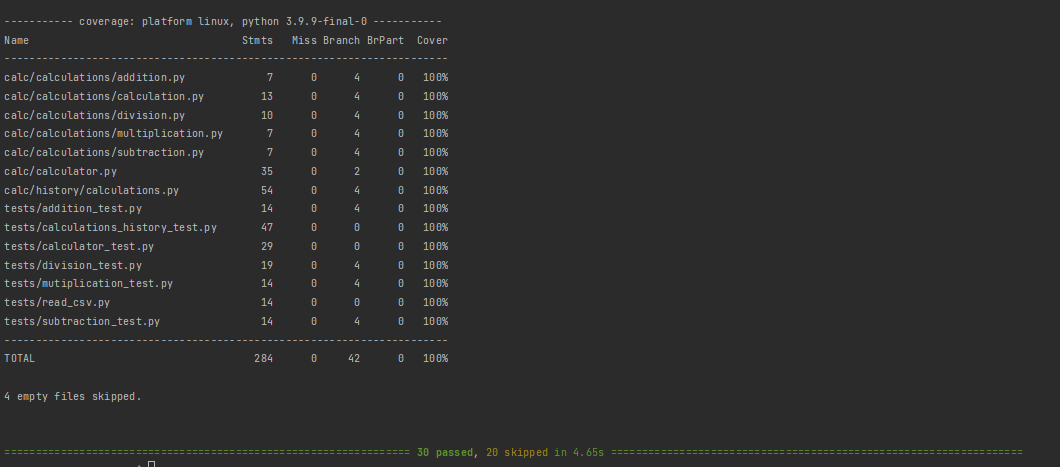
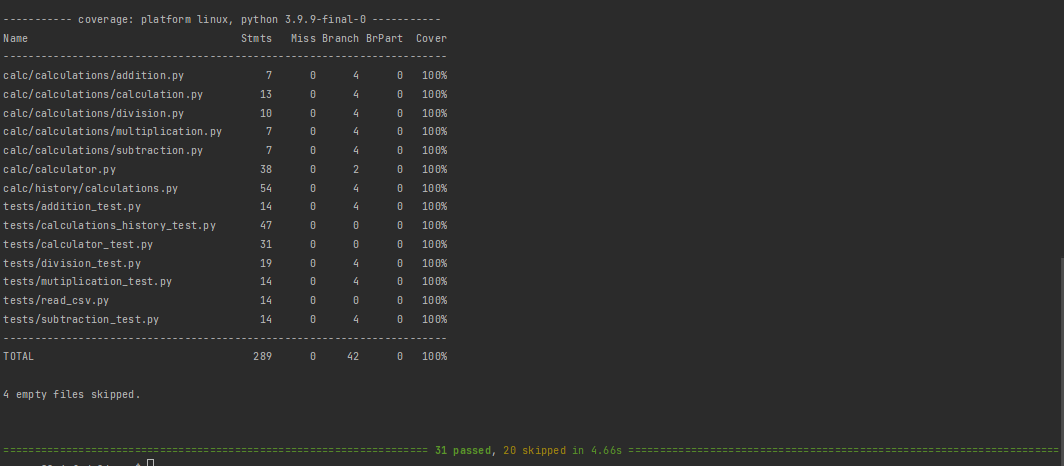
Prevent a user to break the program by messing with the csv file.

diff --git a/app/templates/result.html b/app/templates/result.html
@@ -33,4 +33,32 @@
 	<b> Value1: </b> {{ value1 }} <br>
 	<b> Value2: </b> {{ value2 }} <br>
 	<b> Result: </b> {{ result }} <br>
+
+<table class="table" id="data">
+	<thead class="thead-dark">
+		<tr>
+			<th> Operation </th>
+			<th> value1 </th>
+    		<th> value2 </th>
+    		<th> result </th>
+		</tr>
+	</thead>
+{% for item in items %}
+	<tr>
+		<td>{{ item[0] }}</td>
+		<td>{{ item[1] }}</td>
+		<td>{{ item[2] }}</td>
+		<td>{{ item[3] }}</td>
+	</tr>
+{% endfor %}
+</table>
+{% block scripts %}
+  <script>
+    $(document).ready(function () {
+      $('#data').DataTable();
+    });
+  </script>
 {% endblock %}
+{% endblock %}
+
+

diff --git a/app/templates/base.html b/app/templates/base.html
@@ -32,9 +32,6 @@
                         <li class="nav-item">
                             <a class="nav-link text-white" href="/form">Form</a>
                         </li>
-                        <li class="nav-item">
-                            <a class="nav-link text-white" href="/history">History</a>
-                        </li>
                     </ul>
                 </div>
             </nav>

diff --git a/app/app.py b/app/app.py
@@ -1,7 +1,6 @@
 """Web Application Program"""
 from flask import Flask, render_template, request, flash
 from calc.calculator import Calculator
-from calc.history.calculations import Calculations
 
 app = Flask(__name__)
 app.secret_key = b'_5#y2L"F4Q8z\n\xec]/'
@@ -25,8 +24,11 @@ def form():
 
         if value1 == "" or value2 == "":
             flash("Input Empty Error!", "error")
+            Calculator.read_csv_file()
+            items = Calculator.get_history()
             return render_template('result.html', value1=value1,
-                                   value2=value2, operation=operation, result="")
+                                   value2=value2, operation=operation, result="",
+                                   items=items)
 
         getattr(Calculator, operation)(value1, (value2,))
         result = ""
@@ -35,14 +37,20 @@ def form():
             flash("Division by Zero Error!", "error")
             result = "None"
             Calculator.put_history_to_csv(operation, value1, value2, result)
+            Calculator.read_csv_file()
+            items = Calculator.get_history()
             return render_template('result.html', value1=value1,
-                                   value2=value2, operation=operation, result=result)
+                                   value2=value2, operation=operation, result=result,
+                                   items=items)
         else:
             result = str(Calculator.get_last_calculation())
             flash("Success!", "success")
             Calculator.put_history_to_csv(operation, value1, value2, result)
+            Calculator.read_csv_file()
+            items = Calculator.get_history()
             return render_template('result.html', value1=value1,
-                                   value2=value2, operation=operation, result=result)
+                                   value2=value2, operation=operation, result=result,
+                                   items=items)
     else:
         return render_template('form.html')
 
@@ -57,16 +65,3 @@ def result_message():
     message = operation + " of " + value1 + " " + value2 + " is " + result
     flash('You were successfully logged in')
     return message
-
-
-@app.route('/history')
-def history_table():
-    """Display the calculation history"""
-    Calculations.read_csv_file()
-    operation = "operations"
-    value1 = "value1"
-    value2 = "value2"
-    result = "result"
-    items = Calculations.get_history()
-    return render_template('history.html', items=items, operation=operation, value1=value1,
-                           value2=value2, result=result)

diff --git a/calc/calculator.py b/calc/calculator.py
@@ -14,7 +14,6 @@ class Calculator:
         """Add as many times to the first number"""
         addition = Addition.create(value, values)
         Calculations.add_history(addition)
-        # Calculations.put_history_to_csv(addition)
         return addition.get_result()
 
     @staticmethod
@@ -22,7 +21,6 @@ class Calculator:
         """Subtract as many times to the first number"""
         subtraction = Subtraction.create(value, values)
         Calculations.add_history(subtraction)
-        # Calculations.put_history_to_csv(subtraction)
         return subtraction.get_result()
 
     @staticmethod
@@ -30,7 +28,6 @@ class Calculator:
         """Multiply as many times to the first number"""
         multiplication = Multiplication.create(value, values)
         Calculations.add_history(multiplication)
-        # Calculations.put_history_to_csv(multiplication)
         return multiplication.get_result()
 
     @staticmethod
@@ -38,7 +35,6 @@ class Calculator:
         """Divide as many times to the first number"""
         division = Division.create(value, values)
         Calculations.add_history(division)
-        # Calculations.put_history_to_csv(division)
         return division.get_result()
 
     @staticmethod
@@ -55,3 +51,8 @@ class Calculator:
     def put_history_to_csv(operation, value1, value2, result):
         """Write History"""
         return Calculations.put_history_to_csv(operation, value1, value2, result)
+
+    @staticmethod
+    def get_history():
+        """ Get history of the Calculator from CSV file """
+        return Calculations.get_history()

diff --git a/calc/history/calculations.py b/calc/history/calculations.py
@@ -53,7 +53,7 @@ class Calculations:
     def read_csv_file():
         # pylint: disable=consider-using-enumerate
         """Read the history from csv and put it into the history """
-        dataframe = pd.read_csv('output.csv')
+        dataframe = pd.read_csv("output.csv")
         operations = dataframe["operations"]
         value1 = dataframe["value1"]
         value2 = dataframe["value2"]

diff --git a/tests/calculator_test.py b/tests/calculator_test.py
@@ -92,3 +92,8 @@ def test_put_history_to_csv():
     """Add items to history"""
     Calculator.put_history_to_csv("addition", 1, 2, 3)
     Calculator.put_history_to_csv("subtraction", 4, 2, 2)
+
+
+def test_get_history():
+    """Test getting history"""
+    assert isinstance(Calculator.get_history(), list)
